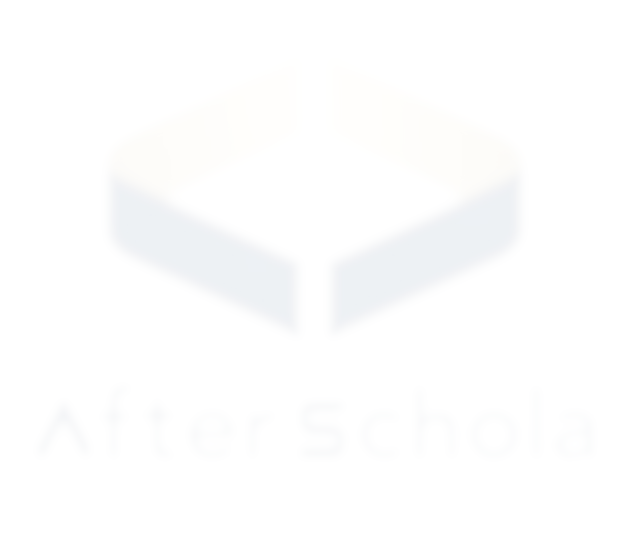
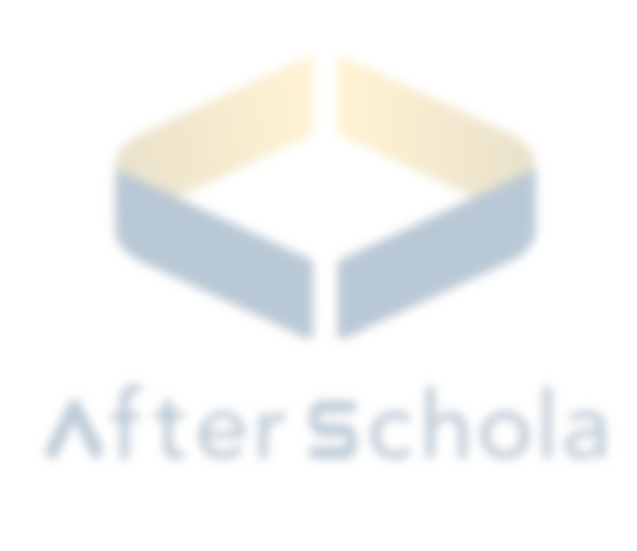
fix: raport AfterSchola_2 watermark and spacing
Denser wash, uniform -24px shift per _2 template

diff --git a/src/print.css b/src/print.css
@@ -113,11 +113,11 @@
 /* ---------- body text ---------- */
 .raport-page .t { white-space: nowrap; }
 .raport-page .title { left: 0; width: 794px; top: 229px; text-align: center; font-weight: bold; font-size: 18.67px; line-height: 21.5px; }
-.raport-page .intro { left: 104px; top: 309px; line-height: 27.6px; font-size: 16px; }
+.raport-page .intro { left: 104px; top: 285px; line-height: 27.6px; font-size: 16px; }
 .raport-page .field-row { left: 104px; line-height: 18.4px; font-size: 16px; }
 .raport-page .field-row .lbl { display: inline-block; width: 94.7px; }
 .raport-page .field-row .val { display: inline-block; min-width: 200px; padding-left: 6px; }
-.raport-page .lead { left: 104px; top: 431px; line-height: 18.4px; }
+.raport-page .lead { left: 104px; top: 407px; line-height: 18.4px; }
 
 /* ---------- tables ---------- */
 .raport-page table { border-collapse: collapse; table-layout: fixed; position: absolute; font-size: 16px; }
@@ -125,16 +125,16 @@
 .raport-page td.c { text-align: center; }
 .raport-page td.b { font-weight: bold; }
 .raport-page td.nb { border: 0; }
-.raport-page #nilai { left: 103px; top: 464px; width: 594px; }
+.raport-page #nilai { left: 103px; top: 440px; width: 594px; }
 .raport-page #nilai td { height: 27.3px; }
-.raport-page #akhir { left: 103px; top: 655px; width: 594px; }
+.raport-page #akhir { left: 103px; top: 631px; width: 594px; }
 .raport-page #akhir td { padding: 5.3px 7.2px; text-align: center; }
-.raport-page #catatan { left: 105.8px; top: 738px; width: 592px; }
+.raport-page #catatan { left: 105.8px; top: 714px; width: 592px; }
 .raport-page #catatan td { border: 0; padding: 0 7.2px; line-height: 27.6px; vertical-align: top; }
 
-.raport-page .sign-date { right: 106.7px; top: 877px; line-height: 27.6px; text-align: right; }
-.raport-page .sign-role { left: 569px; top: 905px; line-height: 27.6px; }
-.raport-page .sign-name { left: 552px; top: 992px; width: 100px; text-align: center; font-size: 17.33px; line-height: 19.9px; white-space: nowrap; }
+.raport-page .sign-date { right: 106.7px; top: 853px; line-height: 27.6px; text-align: right; }
+.raport-page .sign-role { left: 569px; top: 881px; line-height: 27.6px; }
+.raport-page .sign-name { left: 552px; top: 968px; width: 100px; text-align: center; font-size: 17.33px; line-height: 19.9px; white-space: nowrap; }
 
 @media print {
   .printable-report.raport-sheet {

diff --git a/src/features/raport/RaportTemplate.jsx b/src/features/raport/RaportTemplate.jsx
@@ -129,8 +129,8 @@ export default function RaportTemplate({ raport, siswa, sekolah, onBack }) {
 
           <div className="abs intro t">Berdasarkan hasil penilaian kegiatan siswa selama mengikuti <b>Ekstrakurikuler CODING</b><br />Semester {raport.semester} Tahun Ajaran {tahunLabel}, kami menerangkan bahwa</div>
 
-          <div className="abs field-row t" style={{ top: '369px' }}><span className="lbl">Nama</span>:<span className="val">{nama}</span></div>
-          <div className="abs field-row t" style={{ top: '397px' }}><span className="lbl">Kelas</span>:<span className="val">{kelas}</span></div>
+          <div className="abs field-row t" style={{ top: '345px' }}><span className="lbl">Nama</span>:<span className="val">{nama}</span></div>
+          <div className="abs field-row t" style={{ top: '373px' }}><span className="lbl">Kelas</span>:<span className="val">{kelas}</span></div>
 
           <div className="abs lead t">Memperoleh <b>Penilaian Akhir Semester (PAS)</b> dengan uraian sebagai berikut</div>
 
